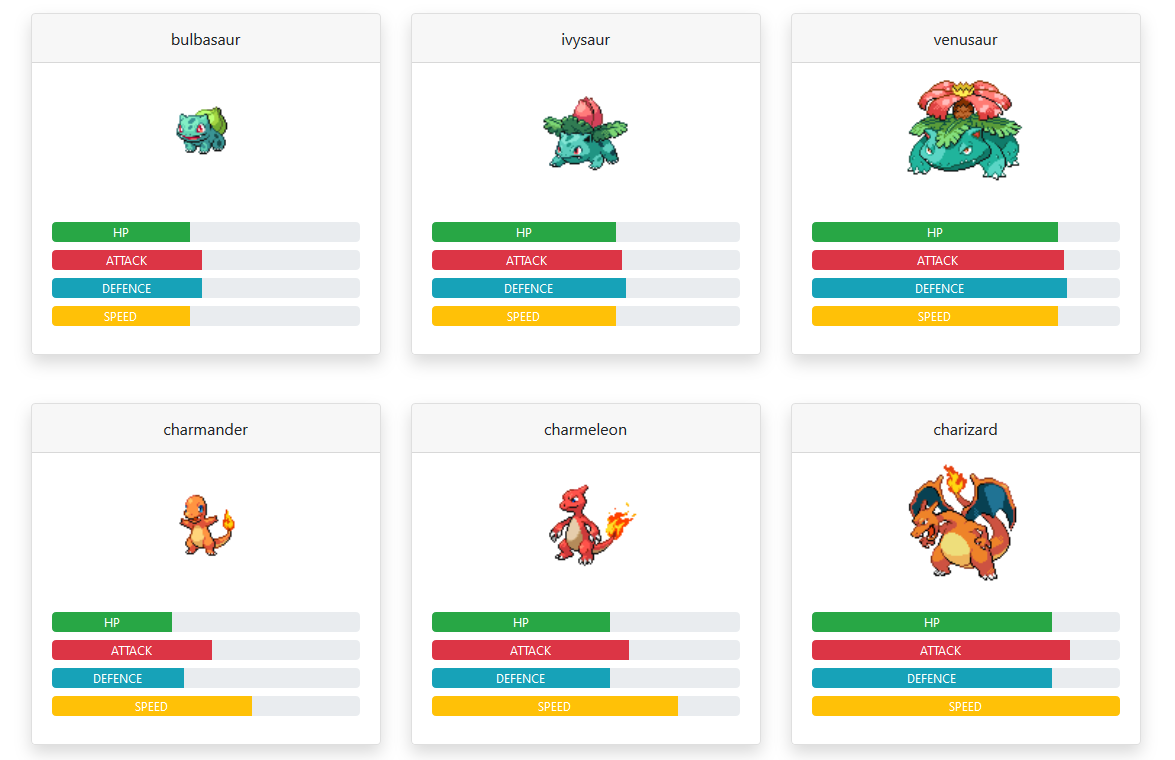
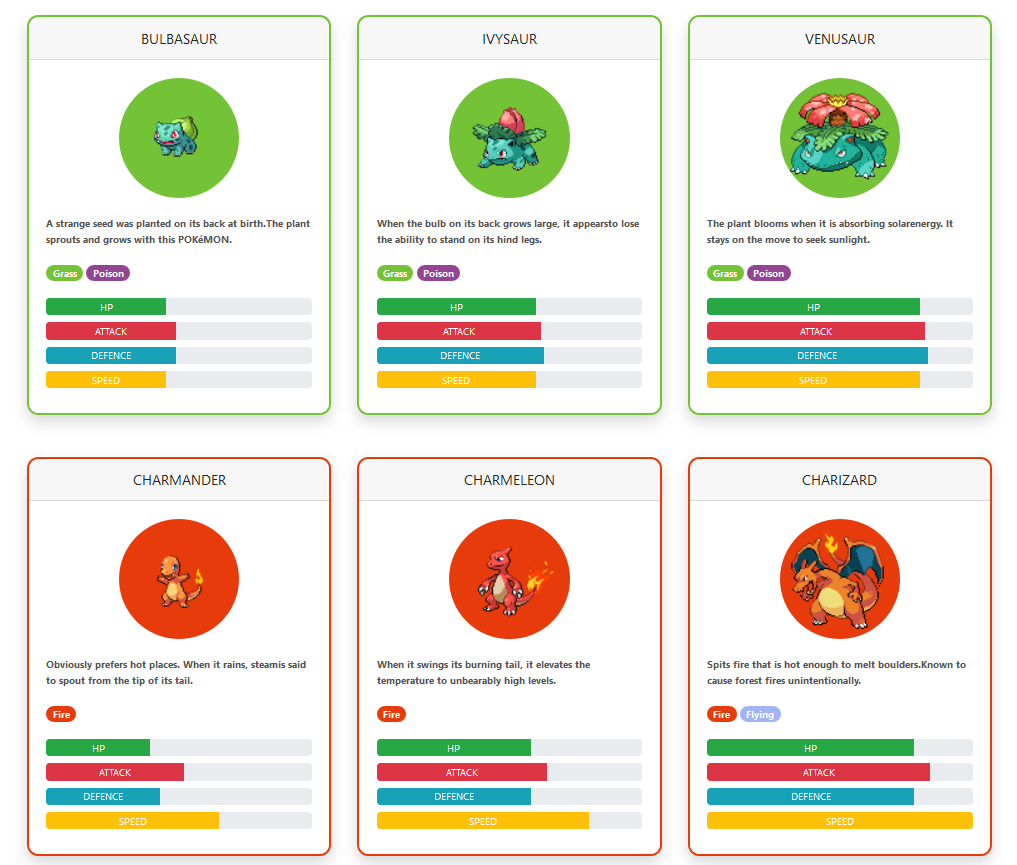
parsing description from different endpoint

diff --git a/src/components/pokemon/PokemonCard.js b/src/components/pokemon/PokemonCard.js
@@ -34,7 +34,9 @@ export default class PokemonCard extends Component {
             defense: '',
             speed: ''
           },
-        types: []
+        types: [],
+        description: '',
+        cardColor:''
     };
 
     async componentDidMount(){
@@ -43,8 +45,12 @@ export default class PokemonCard extends Component {
 
         const pokemonIndex = url.split('/')[url.split('/').length - 2];
         const pokemonUrl = `https://pokeapi.co/api/v2/pokemon/${pokemonIndex}/`;
+        const pokemonSpeciesUrl = `https://pokeapi.co/api/v2/pokemon-species/${pokemonIndex}/`;
 
         const pokemonRes = await axios.get(pokemonUrl);
+        const pokemonSpeciesRes = await axios.get(pokemonSpeciesUrl);
+
+        const description = pokemonSpeciesRes.data.flavor_text_entries[0].flavor_text;
 
         const imageUrl = pokemonRes.data.sprites.front_default;
 
@@ -53,7 +59,11 @@ export default class PokemonCard extends Component {
         const defense = pokemonRes.data.stats[2].base_stat;
         const speed = pokemonRes.data.stats[5].base_stat;
 
-        this.setState({name, imageUrl, stats:{hp, attack, defense, speed}});
+        const types = pokemonRes.data.types.map(type => type.type.name);
+
+        const cardColor = pokemonRes.data.types[0].type.name;
+
+        this.setState({name, imageUrl, stats:{hp, attack, defense, speed}, types, description, cardColor});
     }
 
 
@@ -61,17 +71,33 @@ export default class PokemonCard extends Component {
 
         return (
             <div className="col-md-4 col-sm-6 mb-5">
-                <div className="card shadow">
+                <div className="card shadow" style={{borderColor: `#${TYPE_COLORS[this.state.cardColor]}`}}>
                     <div className="card-header">{this.state.name}</div>
                     <div class="text-center">
-                    <img class="card-img-top center-block" src={this.state.imageUrl} alt="Card image cap"></img> 
+                    <img class="card-img-top center-block" style={{backgroundColor: `#${TYPE_COLORS[this.state.cardColor]}`}} 
+                    src={this.state.imageUrl} alt="Card image cap"></img>
                     </div>
                     <div class="card-body">
+                    <p className="poke-description">{this.state.description}</p>
+                    {this.state.types.map(type => (
+                     <span key={type} className="badge badge-pill mr-1"
+                      style={{
+                        backgroundColor: `#${TYPE_COLORS[type]}`,
+                        color: 'white'
+                      }}>
+                          {type
+                        .toLowerCase()
+                        .split(' ')
+                        .map(s => s.charAt(0).toUpperCase() + s.substring(1))
+                        .join(' ')}
+                    </span>
+                  ))}
                      <ProgressBar variant="success" now={this.state.stats.hp} label="HP" />
                      <ProgressBar variant="danger" now={this.state.stats.attack} label="ATTACK" />
                      <ProgressBar variant="info" now={this.state.stats.defense} label="DEFENCE" />
                      <ProgressBar variant="warning" now={this.state.stats.speed} label="SPEED" />
                     </div>
+                
                 </div>
             </div>
         )

diff --git a/src/App.css b/src/App.css
@@ -7,17 +7,39 @@
   background-color: #ef5350 !important;
 }
 
+
+.card {
+  border-radius: 0.8rem;
+  border: 3px solid;
+}
+
 .card-header {
   text-align: center;
+  text-transform: uppercase;
 }
 
 .card-img-top {
   width: 40%;
   transition: 0.5s;
+  border-radius: 50%;
+  margin-top: 20px;
 }
 
 .card-img-top:hover {
-  width: 50%;
+  width: 55%;
+  cursor: pointer;
+}
+
+
+.poke-description {
+  font-size: 12px;
+  font-weight: bold;
+  color: #555353;
+}
+
+
+.badge {
+  margin-bottom: 20px;
 }
 
 .progress {
